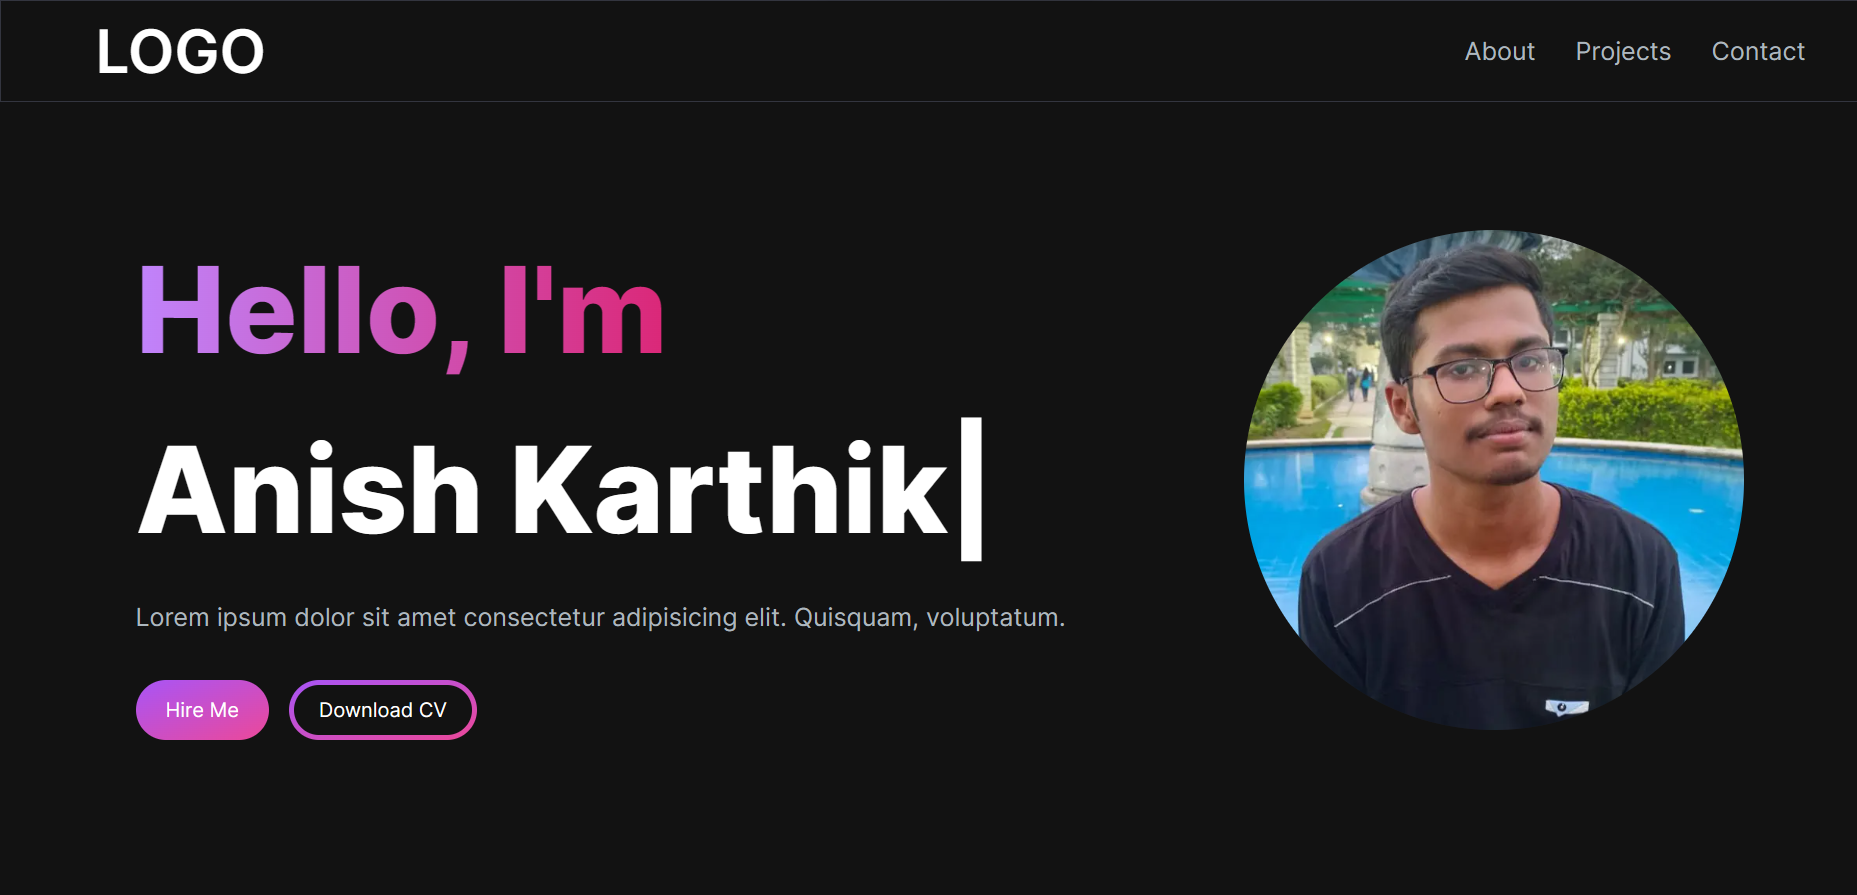
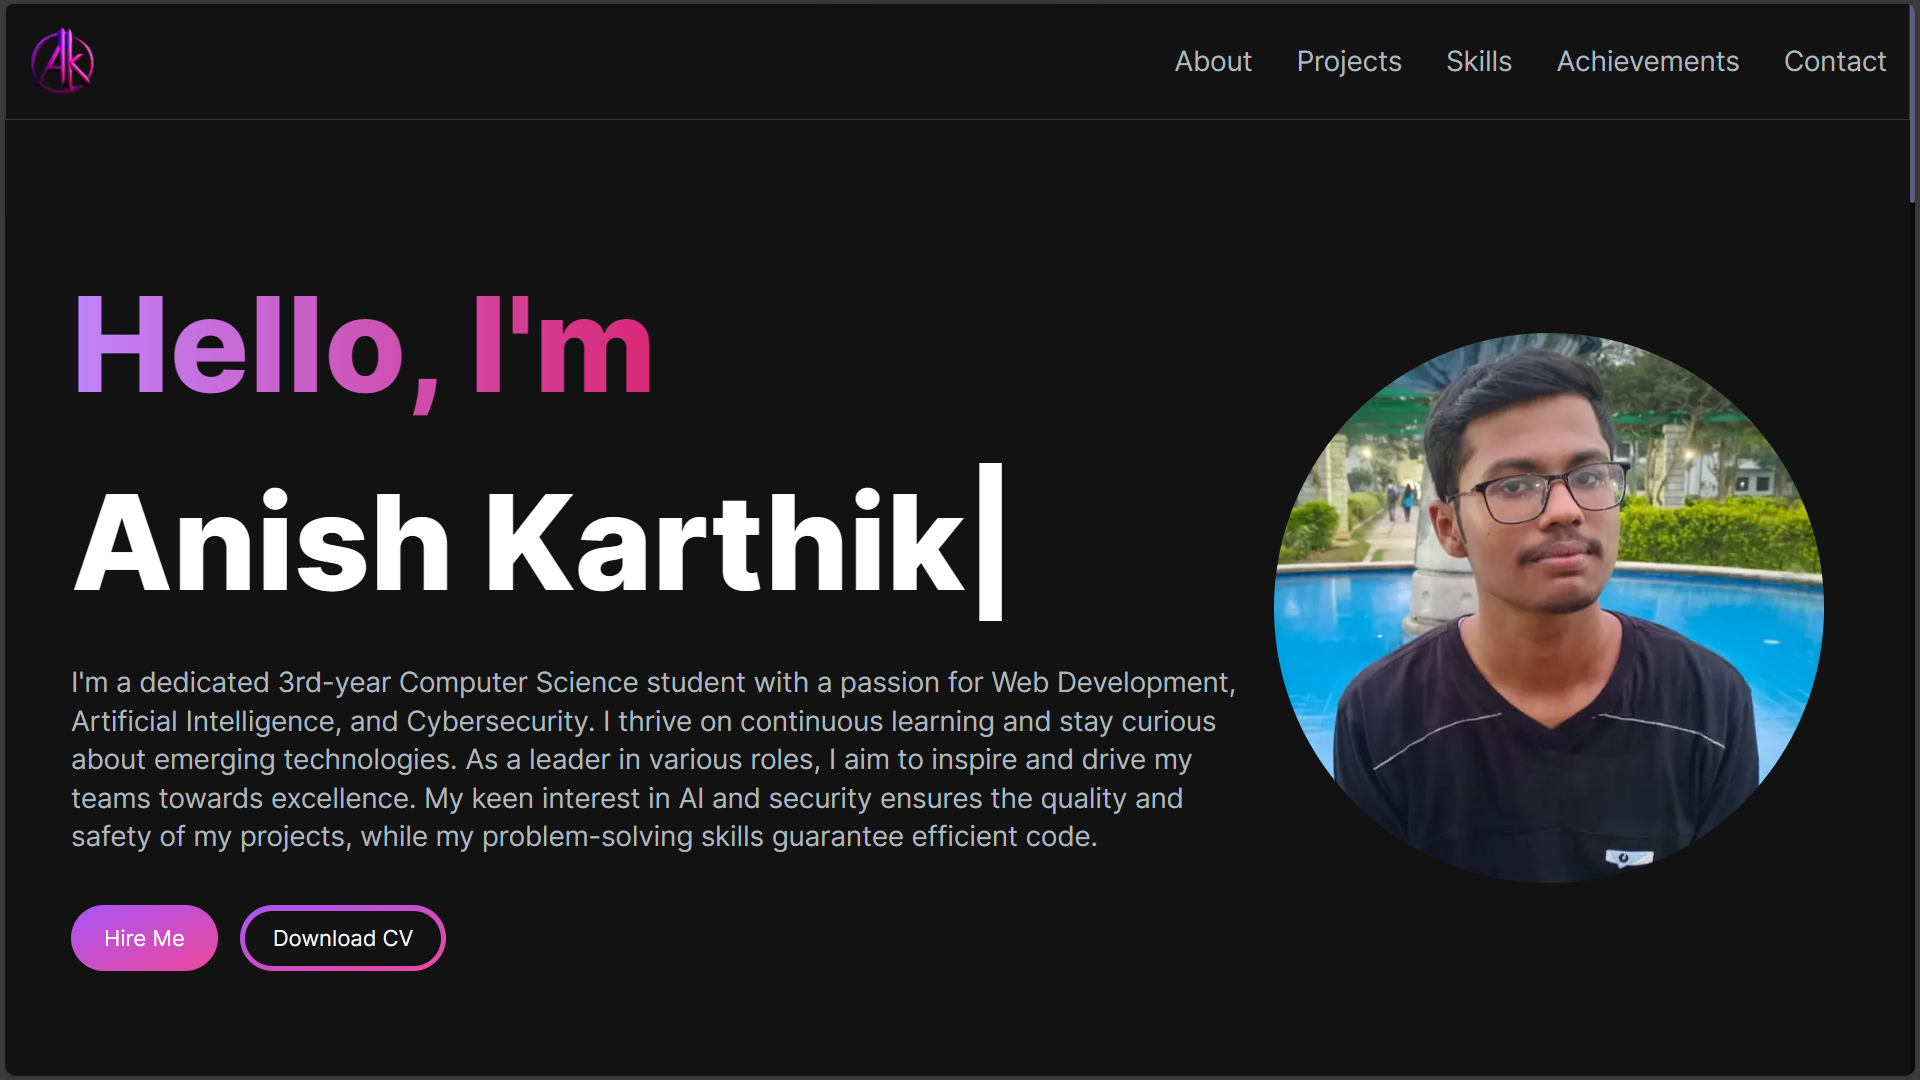
Enchance UI

diff --git a/components/section/AchievementsSection.tsx b/components/section/AchievementsSection.tsx
@@ -14,6 +14,8 @@ export type TAchievement = {
   tag: string[];
   date: string;
   skills: string[];
+  icon?: string;
+  text?: string;
 };
 
 const achievementsList: TAchievement[] = [
@@ -185,15 +187,19 @@ const achievementsList: TAchievement[] = [
     link: "https://leetcode.com/Anish-Karthik",
     tag: ["Coding"],
     date: "Oct 2022 - Present",
+    icon: "https://leetcode.com/static/images/LeetCode_logo.png",
+    text: "view profile",
   },
   {
     title: "Codechef 3 Star (1,763)",
     skills: ["Coding", "DSA", "Problem Solving"],
     event: "Codechef",
-    description: "Codechef 3 Star (1,763) and solved 485+ problems. Due 2-3 month codechef had no rated contests I Couldn't able to raise star rating.",
+    description: "Codechef 3 Star (1,763) and attended 25+ contests",
     link: "https://www.codechef.com/users/psna_28",
     tag: ["Coding"],
     date: "Oct 2022 - Present",
+    icon: "https://static.uacdn.net/thumbnail/external-app-icons/ce4fd2180646452aa0b03c3ffa3ef8e2.png",
+    text: "view profile",
   },
   {
     title: "Geeksforgeeks Rank 2",
@@ -203,6 +209,8 @@ const achievementsList: TAchievement[] = [
     link: "https://auth.geeksforgeeks.org/user/anishkarthik54321",
     tag: ["Coding"],
     date: "Oct 2022 - Present",
+    icon: "https://cynosure2k21.github.io/sponsors/GeeksforGeeks.png",
+    text: "view profile",
   },
   {
     title: "Google Farewell Coding Rank 1108",
@@ -212,6 +220,7 @@ const achievementsList: TAchievement[] = [
     link: "https://www.linkedin.com/posts/anish-karthik_googlefarewellcontest-codingcontests-techcommunity-activity-7055582517029982208-RcCu?utm_source=share&utm_medium=member_desktop",
     tag: ["Coding"],
     date: "15-Apr-2023",
+    icon: "https://cdn.icon-icons.com/icons2/836/PNG/512/Google_icon-icons.com_66793.png",
   },  
 ];
 
@@ -256,14 +265,7 @@ const AchievementsSection = () => {
           >
             <AchievementCard
               key={index}
-              title={achievement.title}
-              description={achievement.description}
-              event={achievement.event}
-              venue={achievement.venue}
-              link={achievement.link}
-              date={achievement.date}
-              skills={achievement.skills}
-              tag={achievement.tag}
+              {...achievement}
             />
           </motion.li>
         ))}

diff --git a/components/card/AchievementCard.tsx b/components/card/AchievementCard.tsx
@@ -2,6 +2,7 @@
 import React from 'react'
 import { TAchievement } from '@/components/section/AchievementsSection'
 import { Button } from '../ui/button'
+import Image from 'next/image'
 
 const AchievementCard = ({
   title,
@@ -10,11 +11,18 @@ const AchievementCard = ({
   venue,
   link,
   date,
-  skills
+  skills,
+  icon,
+  text,
 }: TAchievement) => {
   return (
     <div className="bg-[#1F1F1F] rounded-xl p-4 h-full">
-      <h3 className="text-xl font-bold text-white">{title}</h3>
+      <div className="flex flex-row justify-start items-center mt-2">
+        {icon && 
+          <img src={icon} alt={event} className="w-8 h-8 mr-2" />
+        }
+        <h3 className="text-xl font-bold text-white">{title}</h3>
+      </div>
       <p className="text-white text-sm">{description}</p>
       <div className="flex flex-row justify-start items-center flex-wrap  mt-4 max-w-full">
         {skills.map((skill, index) => (
@@ -39,7 +47,7 @@ const AchievementCard = ({
             rel="noopener noreferrer"
             className="text-white text-sm"
           >
-            View Certificate
+            {text ||"View Certificate"}
           </a>
         </Button>
       </div>

diff --git a/components/card/ProjectCard.tsx b/components/card/ProjectCard.tsx
@@ -16,7 +16,7 @@ const ProjectCard = ({ imgUrl, title, description, gitUrl, previewUrl } : Projec
     <div>
       <div
         className="h-52 md:h-72 rounded-t-xl relative group"
-        style={{ background: `url(${imgUrl})`, backgroundSize: "cover" }}
+        style={{ background: `url(${imgUrl})`, backgroundSize: "cover", backgroundRepeat: "no-repeat"}}
       >
         <div className="overlay items-center justify-center absolute top-0 left-0 w-full h-full bg-[#181818] bg-opacity-0 hidden group-hover:flex group-hover:bg-opacity-80 transition-all duration-500 ">
           <Link

diff --git a/app/globals.css b/app/globals.css
@@ -82,3 +82,27 @@
     margin-right: -1.2rem/* -19.2px */;
   }
 }
+@layer utilities {
+  .css-invert {
+    @apply invert-[50%] brightness-200;
+  }
+
+  .custom-scrollbar::-webkit-scrollbar {
+    width: 4px;
+    height: 3px;
+    border-radius: 0px;
+  }
+
+  .custom-scrollbar::-webkit-scrollbar-track {
+    background: #09090a;
+  }
+
+  .custom-scrollbar::-webkit-scrollbar-thumb {
+    background: #5c5c7b;
+    border-radius: 50px;
+  }
+
+  .custom-scrollbar::-webkit-scrollbar-thumb:hover {
+    background: #7878a3;
+  }
+}

diff --git a/components/Navbar.tsx b/components/Navbar.tsx
@@ -39,7 +39,7 @@ const Navbar = () => {
   const [navbarOpen, setNavbarOpen] = useState(false);
 
   return (
-    <nav className="fixed mx-auto border border-[#33353F] top-0 left-0 right-0 z-20 bg-[#121212] bg-opacity-100">
+    <nav className="fixed mx-auto border border-[#33353F] top-0 left-0 right-0 z-20 bg-[#121212] bg-opacity-100 ">
       <div className="flex container lg:py-4 flex-wrap items-center justify-between mx-auto px-4 py-2">
         <Link
           href={"/"}

diff --git a/components/Footer.tsx b/components/Footer.tsx
@@ -40,7 +40,7 @@ const socials = [
 
 const Footer = () => {
   return (
-    <footer id="contact" className=" flex flex-col footer border z-10 border-t-[#33353F] border-l-transparent border-r-transparent text-white">
+    <footer id="contact" className="mt-12 flex flex-col footer border z-10 border-t-[#33353F] border-l-transparent border-r-transparent text-white">
       <div className="container py-12 sm:px-12 flex gap-2 justify-between">
         <Link
           href={"/"}

diff --git a/app/layout.tsx b/app/layout.tsx
@@ -1,3 +1,4 @@
+import { cn } from '@/lib/utils'
 import './globals.css'
 import type { Metadata } from 'next'
 import { Inter } from 'next/font/google'
@@ -16,7 +17,7 @@ export default function RootLayout({
 }) {
   return (
     <html lang="en">
-      <body className={inter.className}>{children}</body>
+      <body className={cn(inter.className,"custom-scrollbar")}>{children}</body>
     </html>
   )
 }

diff --git a/components/section/ProjectsSection.tsx b/components/section/ProjectsSection.tsx
@@ -9,7 +9,7 @@ const projectsData = [
     id: 1,
     title: "React Portfolio Website",
     description: "A Next.js React personal portfolio website.",
-    image: "https://github.com/Anish-Karthik/Threads/assets/111771214/74184ab0-6024-4640-8b95-18512448eb53",
+    image: "/images/projects/1.png",
     tag: ["All", "Web"],
     gitUrl: "https://github.com/Anish-Karthik/portfolio",
     previewUrl: "/",

diff --git a/app/page.tsx b/app/page.tsx
@@ -5,6 +5,7 @@ import HeroSection from '@/components/section/HeroSection'
 import Navbar from '@/components/Navbar'
 import ProjectsSection from '@/components/section/ProjectsSection'
 import SkillsSection from '@/components/section/SkillsSection'
+import EmailSection from '@/components/section/EmailSection'
 
 export default function Home() {
   return (
